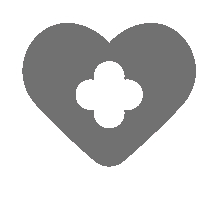
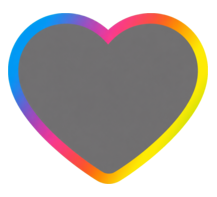
新增官方橙色 BLADE Heart 支持并保持既有卡效不变
- 将 ORANGE 接入 Heart 数据模型、卡牌同步、管理筛选、判定统计和前端显示
  - 增加橙色图标与卡文占位符，并保持 GRAY 无色和 RAINBOW All Heart 的独立语义
  - 补齐卡效颜色文案的穷尽映射，历史卡效继续使用卡文明示的固定颜色集合
  - 记录 ORANGE 当前仅作官方新 BLADE Heart 颜色的保守扩展边界
  - 增加同步、管理、卡文解析、判定和休息室统计测试

Changed region(s): [[0.0276, 0.0609, 0.9677, 0.9442], [0.3318, 0.3046, 0.6636, 0.6701]]

diff --git a/client/src/lib/modifierIconAssets.ts b/client/src/lib/modifierIconAssets.ts
@@ -5,6 +5,7 @@ import heartAllIcon from '@/assets/modifier-icons/heart_all.png';
 import heartBlueIcon from '@/assets/modifier-icons/heart_blue.png';
 import heartGrayIcon from '@/assets/modifier-icons/heart_gray.png';
 import heartGreenIcon from '@/assets/modifier-icons/heart_green.png';
+import heartOrangeIcon from '@/assets/modifier-icons/heart_orange.png';
 import heartPinkIcon from '@/assets/modifier-icons/heart_pink.png';
 import heartPurpleIcon from '@/assets/modifier-icons/heart_purple.png';
 import heartRedIcon from '@/assets/modifier-icons/heart_red.png';
@@ -17,6 +18,7 @@ export type ModifierIconName =
   | 'heart_green'
   | 'heart_blue'
   | 'heart_purple'
+  | 'heart_orange'
   | 'heart_gray'
   | 'heart_all'
   | 'blade'
@@ -29,6 +31,7 @@ export const MODIFIER_ICON_SOURCE: Record<ModifierIconName, string> = {
   heart_green: heartGreenIcon,
   heart_blue: heartBlueIcon,
   heart_purple: heartPurpleIcon,
+  heart_orange: heartOrangeIcon,
   heart_gray: heartGrayIcon,
   heart_all: heartAllIcon,
   blade: bladeIcon,
@@ -42,6 +45,7 @@ export const HEART_ICON_NAME_BY_COLOR: Record<HeartColor, ModifierIconName> = {
   [HeartColor.GREEN]: 'heart_green',
   [HeartColor.BLUE]: 'heart_blue',
   [HeartColor.PURPLE]: 'heart_purple',
+  [HeartColor.ORANGE]: 'heart_orange',
   [HeartColor.GRAY]: 'heart_gray',
   [HeartColor.RAINBOW]: 'heart_all',
 };
@@ -53,6 +57,7 @@ export const HEART_REQUIREMENT_ICON_NAME_BY_COLOR: Record<HeartColor, ModifierIc
   [HeartColor.GREEN]: 'heart_green',
   [HeartColor.BLUE]: 'heart_blue',
   [HeartColor.PURPLE]: 'heart_purple',
+  [HeartColor.ORANGE]: 'heart_orange',
   [HeartColor.GRAY]: 'heart_gray',
   [HeartColor.RAINBOW]: 'heart_gray',
 };
@@ -64,6 +69,7 @@ export const HEART_ICON_SOURCE_BY_COLOR: Record<HeartColor, string> = {
   [HeartColor.GREEN]: MODIFIER_ICON_SOURCE.heart_green,
   [HeartColor.BLUE]: MODIFIER_ICON_SOURCE.heart_blue,
   [HeartColor.PURPLE]: MODIFIER_ICON_SOURCE.heart_purple,
+  [HeartColor.ORANGE]: MODIFIER_ICON_SOURCE.heart_orange,
   [HeartColor.GRAY]: MODIFIER_ICON_SOURCE.heart_gray,
   [HeartColor.RAINBOW]: MODIFIER_ICON_SOURCE.heart_all,
 };
@@ -75,6 +81,7 @@ export const HEART_REQUIREMENT_ICON_SOURCE_BY_COLOR: Record<HeartColor, string> 
   [HeartColor.GREEN]: MODIFIER_ICON_SOURCE.heart_green,
   [HeartColor.BLUE]: MODIFIER_ICON_SOURCE.heart_blue,
   [HeartColor.PURPLE]: MODIFIER_ICON_SOURCE.heart_purple,
+  [HeartColor.ORANGE]: MODIFIER_ICON_SOURCE.heart_orange,
   [HeartColor.GRAY]: MODIFIER_ICON_SOURCE.heart_gray,
   [HeartColor.RAINBOW]: MODIFIER_ICON_SOURCE.heart_gray,
 };

diff --git a/src/scripts/sync-cards-loveca-excel.ts b/src/scripts/sync-cards-loveca-excel.ts
@@ -34,6 +34,12 @@ import { Pool } from 'pg';
 import { parse as parseDotenv } from 'dotenv';
 import { normalizeCardCode } from '../shared/utils/card-code.js';
 import { appendDoubleGrayBladeHearts } from './card-sync-double-heart.js';
+import {
+  LOVECA_SYNC_BLADE_HEART_COLOR_MAP,
+  LOVECA_SYNC_HEART_COLOR_MAP,
+  LOVECA_SYNC_RAINBOW_HEART_TOKENS,
+  type LovecaSyncHeartColor,
+} from './card-sync-heart-colors.js';
 import { resolveLovecaExcelPath } from './loveca-excel-source.js';
 
 const require = createRequire(import.meta.url);
@@ -51,7 +57,7 @@ type BladeHeartSyncItem = {
   readonly heartColor?: HeartColor;
 };
 
-type HeartColor = 'PINK' | 'RED' | 'YELLOW' | 'GREEN' | 'BLUE' | 'PURPLE' | 'GRAY' | 'RAINBOW';
+type HeartColor = LovecaSyncHeartColor;
 
 type HeartSyncItem = {
   readonly color: HeartColor;
@@ -300,25 +306,6 @@ const SYNC_FIELDS: readonly (keyof ExcelSyncRecord)[] = [
   'source_external_id',
   'source_flags',
 ];
-
-const EXCEL_HEART_COLOR_MAP: Record<string, Exclude<HeartColor, 'RAINBOW'>> = {
-  pink: 'PINK',
-  red: 'RED',
-  yellow: 'YELLOW',
-  green: 'GREEN',
-  blue: 'BLUE',
-  purple: 'PURPLE',
-  gray: 'GRAY',
-  grey: 'GRAY',
-  colorless: 'GRAY',
-};
-
-const EXCEL_RAINBOW_HEART_TOKENS = new Set(['any', 'all']);
-
-const EXCEL_BLADE_HEART_COLOR_MAP: Record<string, HeartColor> = {
-  ...EXCEL_HEART_COLOR_MAP,
-  all: 'RAINBOW',
-};
 
 const EXCEL_SPECIAL_HEART_EFFECT_MAP: Record<
   string,
@@ -836,7 +823,9 @@ function parseExcelHearts(
   let hasParseError = false;
   for (const [rawKey, rawCount] of Object.entries(heartObject)) {
     const token = normalizeHeartToken(rawKey);
-    const color = EXCEL_RAINBOW_HEART_TOKENS.has(token) ? 'RAINBOW' : EXCEL_HEART_COLOR_MAP[token];
+    const color = LOVECA_SYNC_RAINBOW_HEART_TOKENS.has(token)
+      ? 'RAINBOW'
+      : LOVECA_SYNC_HEART_COLOR_MAP[token];
     const count = parsePositiveIntegerCount(rawCount);
 
     if (!color) {
@@ -870,7 +859,7 @@ function parseExcelBladeHearts(
 
   if (bladeHeartValue) {
     const token = normalizeBladeHeartToken(bladeHeartValue);
-    const heartColor = EXCEL_BLADE_HEART_COLOR_MAP[token];
+    const heartColor = LOVECA_SYNC_BLADE_HEART_COLOR_MAP[token];
     const specialEffect = EXCEL_SPECIAL_HEART_EFFECT_MAP[token];
 
     if (appendDoubleGrayBladeHearts(result, token)) {

diff --git a/tests/unit/card-data-orange-management.test.ts b/tests/unit/card-data-orange-management.test.ts
@@ -1,0 +1,57 @@
+import { describe, expect, it } from 'vitest';
+import {
+  BLADE_HEART_COLOR_OPTIONS,
+  BLADE_HEART_OPTIONS,
+  MEMBER_HEART_COLOR_OPTIONS,
+  REQUIREMENT_HEART_COLOR_OPTIONS,
+  matchesBladeHeartFilter,
+} from '../../client/src/components/deck-editor/filter-constants';
+import { formDataToYaml, yamlToFormData } from '../../client/src/components/admin/yaml-helpers';
+import { HeartColorSchema } from '../../src/domain/card-data/schema';
+import { BladeHeartEffect, CardType, HeartColor } from '../../src/shared/types/enums';
+
+const orangeBladeHeart = [
+  { effect: BladeHeartEffect.HEART, heartColor: HeartColor.ORANGE },
+] as const;
+
+describe('orange Heart card data and management', () => {
+  it('accepts ORANGE in the runtime card-data schema', () => {
+    expect(HeartColorSchema.parse('ORANGE')).toBe(HeartColor.ORANGE);
+  });
+
+  it('exposes ORANGE as a distinct member, requirement, and Blade Heart filter', () => {
+    for (const options of [
+      MEMBER_HEART_COLOR_OPTIONS,
+      REQUIREMENT_HEART_COLOR_OPTIONS,
+      BLADE_HEART_COLOR_OPTIONS,
+    ]) {
+      expect(options).toContainEqual(
+        expect.objectContaining({ value: HeartColor.ORANGE, label: '橙' })
+      );
+    }
+    expect(BLADE_HEART_OPTIONS).toContainEqual(
+      expect.objectContaining({ value: 'HEART:ORANGE', label: '橙' })
+    );
+    expect(matchesBladeHeartFilter(orangeBladeHeart, 'HEART:ORANGE')).toBe(true);
+    expect(matchesBladeHeartFilter(orangeBladeHeart, 'HEART:YELLOW')).toBe(false);
+  });
+
+  it('preserves ORANGE through the card-management YAML round trip', () => {
+    const yamlText = formDataToYaml(
+      {
+        cardType: CardType.LIVE,
+        score: 5,
+        requirements: [{ color: HeartColor.ORANGE, count: 1 }],
+        bladeHearts: orangeBladeHeart,
+      },
+      CardType.LIVE,
+      true
+    );
+    const restored = yamlToFormData(yamlText, { cardType: CardType.LIVE });
+
+    expect(restored.requirements).toEqual([{ color: HeartColor.ORANGE, count: 1 }]);
+    expect(restored.bladeHearts).toEqual(orangeBladeHeart);
+    expect(yamlText).toContain('color: ORANGE');
+    expect(yamlText).toContain('heartColor: ORANGE');
+  });
+});

diff --git a/src/scripts/audit-loveca-effect-placeholders.ts b/src/scripts/audit-loveca-effect-placeholders.ts
@@ -101,6 +101,7 @@ const KNOWN_TOKEN_KINDS = new Map<string, PlaceholderKind>([
   ['[緑ブレード]', 'blade'],
   ['[青ブレード]', 'blade'],
   ['[紫ブレード]', 'blade'],
+  ['[オレンジブレード]', 'blade'],
   ['[桃ハート]', 'heart'],
   ['[赤ハート]', 'heart'],
   ['[红HEART]', 'heart'],
@@ -111,6 +112,9 @@ const KNOWN_TOKEN_KINDS = new Map<string, PlaceholderKind>([
   ['[蓝HEART]', 'heart'],
   ['[紫ハート]', 'heart'],
   ['[紫HEART]', 'heart'],
+  ['[オレンジハート]', 'heart'],
+  ['[橙ハート]', 'heart'],
+  ['[橙HEART]', 'heart'],
   ['[虹ハート]', 'heart'],
   ['[無ハート]', 'heart'],
   ['[無色ハート]', 'heart'],
@@ -147,12 +151,8 @@ function unzipText(xlsxPath: string, entryName: string): string {
 
 function decodeXmlText(value: string): string {
   return value
-    .replace(/&#x([0-9a-fA-F]+);/g, (_, hex: string) =>
-      String.fromCodePoint(parseInt(hex, 16))
-    )
-    .replace(/&#(\d+);/g, (_, decimal: string) =>
-      String.fromCodePoint(parseInt(decimal, 10))
-    )
+    .replace(/&#x([0-9a-fA-F]+);/g, (_, hex: string) => String.fromCodePoint(parseInt(hex, 16)))
+    .replace(/&#(\d+);/g, (_, decimal: string) => String.fromCodePoint(parseInt(decimal, 10)))
     .replace(/&quot;/g, '"')
     .replace(/&apos;/g, "'")
     .replace(/&lt;/g, '<')
@@ -379,9 +379,7 @@ function printTextReport(
   console.log('\nToken summary:');
   for (const stat of stats) {
     const knownLabel = stat.known ? stat.kind : 'unknown';
-    console.log(
-      `  ${stat.token}\t${stat.total}\tjp=${stat.jp}\tcn=${stat.cn}\t${knownLabel}`
-    );
+    console.log(`  ${stat.token}\t${stat.total}\tjp=${stat.jp}\tcn=${stat.cn}\t${knownLabel}`);
   }
 
   if (unknownStats.length > 0) {

diff --git a/client/src/lib/cardEffectTokens.ts b/client/src/lib/cardEffectTokens.ts
@@ -62,6 +62,7 @@ const TOKEN_DEFINITIONS = new Map<string, Omit<CardEffectPlaceholderPart, 'raw'>
   ['[緑ブレード]', { kind: 'blade', label: '緑ブレード', icon: 'heart_green' }],
   ['[青ブレード]', { kind: 'blade', label: '青ブレード', icon: 'heart_blue' }],
   ['[紫ブレード]', { kind: 'blade', label: '紫ブレード', icon: 'heart_purple' }],
+  ['[オレンジブレード]', { kind: 'blade', label: 'オレンジブレード', icon: 'heart_orange' }],
   ['[桃ハート]', { kind: 'heart', label: '桃ハート', icon: 'heart_pink' }],
   ['[赤ハート]', { kind: 'heart', label: '赤ハート', icon: 'heart_red' }],
   ['[红HEART]', { kind: 'heart', label: '红HEART', icon: 'heart_red' }],
@@ -72,6 +73,9 @@ const TOKEN_DEFINITIONS = new Map<string, Omit<CardEffectPlaceholderPart, 'raw'>
   ['[蓝HEART]', { kind: 'heart', label: '蓝HEART', icon: 'heart_blue' }],
   ['[紫ハート]', { kind: 'heart', label: '紫ハート', icon: 'heart_purple' }],
   ['[紫HEART]', { kind: 'heart', label: '紫HEART', icon: 'heart_purple' }],
+  ['[オレンジハート]', { kind: 'heart', label: 'オレンジハート', icon: 'heart_orange' }],
+  ['[橙ハート]', { kind: 'heart', label: '橙ハート', icon: 'heart_orange' }],
+  ['[橙HEART]', { kind: 'heart', label: '橙HEART', icon: 'heart_orange' }],
   ['[虹ハート]', { kind: 'heart', label: '虹ハート', icon: 'heart_all' }],
   ['[無ハート]', { kind: 'heart', label: '無ハート', icon: 'heart_gray' }],
   ['[無色ハート]', { kind: 'heart', label: '無色ハート', icon: 'heart_gray' }],

diff --git a/tests/unit/card-effect-tokens.test.ts b/tests/unit/card-effect-tokens.test.ts
@@ -29,6 +29,29 @@ describe('parseCardEffectText', () => {
     ).toEqual([2, 1]);
   });
 
+  it('maps the official orange Blade Heart and Heart placeholders', () => {
+    const text = '获得[オレンジブレード][オレンジハート][橙HEART]。';
+
+    expect(getUnknownCardEffectPlaceholders(text)).toEqual([]);
+    expect(parseCardEffectText(text)).toEqual([
+      { kind: 'text', text: '获得' },
+      {
+        kind: 'blade',
+        raw: '[オレンジブレード]',
+        label: 'オレンジブレード',
+        icon: 'heart_orange',
+      },
+      {
+        kind: 'heart',
+        raw: '[オレンジハート]',
+        label: 'オレンジハート',
+        icon: 'heart_orange',
+      },
+      { kind: 'heart', raw: '[橙HEART]', label: '橙HEART', icon: 'heart_orange' },
+      { kind: 'text', text: '。' },
+    ]);
+  });
+
   it('accepts the bp1-007 and PR-028 Chinese effect texts without unknown tokens', () => {
     expect(getUnknownCardEffectPlaceholders('【起动】【1回合1次】[E][E]：抽1张卡。')).toEqual([]);
     expect(

diff --git a/src/scripts/sync-cards-cloudbase-new.ts b/src/scripts/sync-cards-cloudbase-new.ts
@@ -31,7 +31,8 @@ const cloudbaseSDK = require('@cloudbase/node-sdk') as {
 
 type CardType = 'MEMBER' | 'LIVE' | 'ENERGY';
 type CardStatus = 'DRAFT' | 'PUBLISHED';
-type HeartColor = 'PINK' | 'RED' | 'YELLOW' | 'GREEN' | 'BLUE' | 'PURPLE' | 'GRAY' | 'RAINBOW';
+type HeartColor =
+  'PINK' | 'RED' | 'YELLOW' | 'GREEN' | 'BLUE' | 'PURPLE' | 'ORANGE' | 'GRAY' | 'RAINBOW';
 type BladeHeartEffect = 'HEART' | 'DRAW' | 'SCORE';
 type ImageMode = 'upload' | 'skip' | 'none';
 type ImageFailureSourceFlag =
@@ -345,6 +346,9 @@ const HEART_COLOR_MAP = new Map<string, HeartColor>([
   ['b_heart06', 'PURPLE'],
   ['06', 'PURPLE'],
   ['紫', 'PURPLE'],
+  ['orange', 'ORANGE'],
+  ['オレンジ', 'ORANGE'],
+  ['橙', 'ORANGE'],
   ['gray', 'GRAY'],
   ['grey', 'GRAY'],
   ['colorless', 'GRAY'],
@@ -764,6 +768,7 @@ function parseHeartColor(value: unknown): HeartColor | null {
     direct === 'GREEN' ||
     direct === 'BLUE' ||
     direct === 'PURPLE' ||
+    direct === 'ORANGE' ||
     direct === 'GRAY' ||
     direct === 'RAINBOW'
   ) {

diff --git a/tests/unit/heart-live.test.ts b/tests/unit/heart-live.test.ts
@@ -190,6 +190,35 @@ describe('HeartPool', () => {
       expect(poolWithRequiredRed.consume(redAndGenericRequirement)?.getTotalCount()).toBe(0);
     });
 
+    it('橙色 Heart 是独立指定色，并可计入无色总数需求', () => {
+      const orangePool = HeartPool.fromHeartIcons([{ color: HeartColor.ORANGE, count: 2 }]);
+
+      expect(
+        orangePool.canSatisfy(
+          createHeartRequirement({
+            [HeartColor.ORANGE]: 2,
+          })
+        )
+      ).toBe(true);
+      expect(
+        orangePool.canSatisfy(
+          createHeartRequirement({
+            [HeartColor.RED]: 1,
+          })
+        )
+      ).toBe(false);
+      expect(
+        orangePool.canSatisfy(
+          createHeartRequirement(
+            {
+              [HeartColor.RAINBOW]: 2,
+            },
+            2
+          )
+        )
+      ).toBe(true);
+    });
+
     it('应该在 Rainbow Heart 不足时返回 false', () => {
       const counts = new Map<HeartColor, number>([
         [HeartColor.PINK, 1],

diff --git a/client/src/components/deck-editor/filter-constants.ts b/client/src/components/deck-editor/filter-constants.ts
@@ -81,7 +81,7 @@ export function getGroupDisplayName(group: string): string {
   return group;
 }
 
-/** 六种指定 Heart 颜色（带 UI 元数据）。 */
+/** 可在卡牌数据中独立表示的指定 Heart 颜色（带 UI 元数据）。 */
 const STANDARD_HEART_COLOR_OPTIONS = [
   { value: HeartColor.PINK, label: '粉', colorClass: 'bg-pink-400' },
   { value: HeartColor.RED, label: '红', colorClass: 'bg-red-400' },
@@ -89,6 +89,7 @@ const STANDARD_HEART_COLOR_OPTIONS = [
   { value: HeartColor.GREEN, label: '绿', colorClass: 'bg-green-400' },
   { value: HeartColor.BLUE, label: '蓝', colorClass: 'bg-blue-400' },
   { value: HeartColor.PURPLE, label: '紫', colorClass: 'bg-purple-400' },
+  { value: HeartColor.ORANGE, label: '橙', colorClass: 'bg-orange-400' },
 ] as const;
 
 /** 成员印刷 Heart：GRAY 是无色，RAINBOW 是可代替指定颜色的 All Heart。 */

diff --git a/tests/unit/waiting-room-judgment-stats.test.ts b/tests/unit/waiting-room-judgment-stats.test.ts
@@ -17,6 +17,7 @@ describe('waiting room judgment stats', () => {
       cardType: CardType.LIVE,
       bladeHearts: [
         { effect: BladeHeartEffect.HEART, heartColor: HeartColor.BLUE },
+        { effect: BladeHeartEffect.HEART, heartColor: HeartColor.ORANGE },
         { effect: BladeHeartEffect.SCORE },
       ],
     } as AnyCardData;
@@ -28,7 +29,8 @@ describe('waiting room judgment stats', () => {
     expect(stats.hearts[HeartColor.PINK]).toBe(0);
     expect(stats.hearts[HeartColor.RAINBOW]).toBe(0);
     expect(stats.hearts[HeartColor.BLUE]).toBe(1);
-    expect(stats.totalHearts).toBe(1);
+    expect(stats.hearts[HeartColor.ORANGE]).toBe(1);
+    expect(stats.totalHearts).toBe(2);
     expect(stats.scoreBonus).toBe(1);
     expect(stats.drawBonus).toBe(1);
     expect(stats.noJudgmentCount).toBe(0);

diff --git a/tests/unit/card-sync-heart-colors.test.ts b/tests/unit/card-sync-heart-colors.test.ts
@@ -1,0 +1,19 @@
+import { describe, expect, it } from 'vitest';
+import {
+  LOVECA_SYNC_BLADE_HEART_COLOR_MAP,
+  LOVECA_SYNC_HEART_COLOR_MAP,
+  LOVECA_SYNC_RAINBOW_HEART_TOKENS,
+} from '../../src/scripts/card-sync-heart-colors';
+
+describe('Loveca card sync Heart colors', () => {
+  it('maps the orange source token to an independent ORANGE color', () => {
+    expect(LOVECA_SYNC_HEART_COLOR_MAP.orange).toBe('ORANGE');
+    expect(LOVECA_SYNC_BLADE_HEART_COLOR_MAP.orange).toBe('ORANGE');
+  });
+
+  it('keeps All Heart tokens mapped to RAINBOW instead of ORANGE', () => {
+    expect(LOVECA_SYNC_RAINBOW_HEART_TOKENS.has('all')).toBe(true);
+    expect(LOVECA_SYNC_RAINBOW_HEART_TOKENS.has('any')).toBe(true);
+    expect(LOVECA_SYNC_BLADE_HEART_COLOR_MAP.all).toBe('RAINBOW');
+  });
+});
